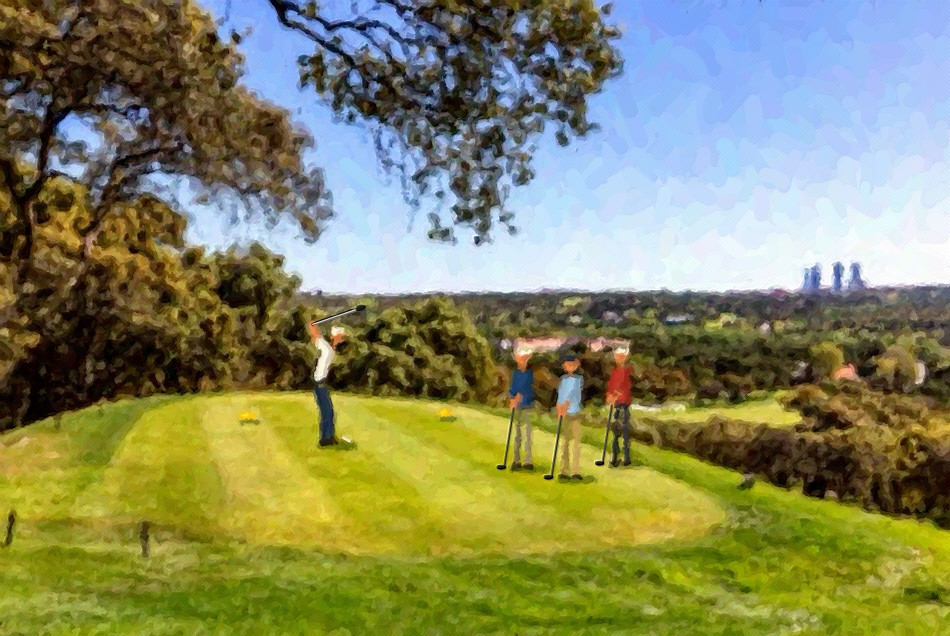
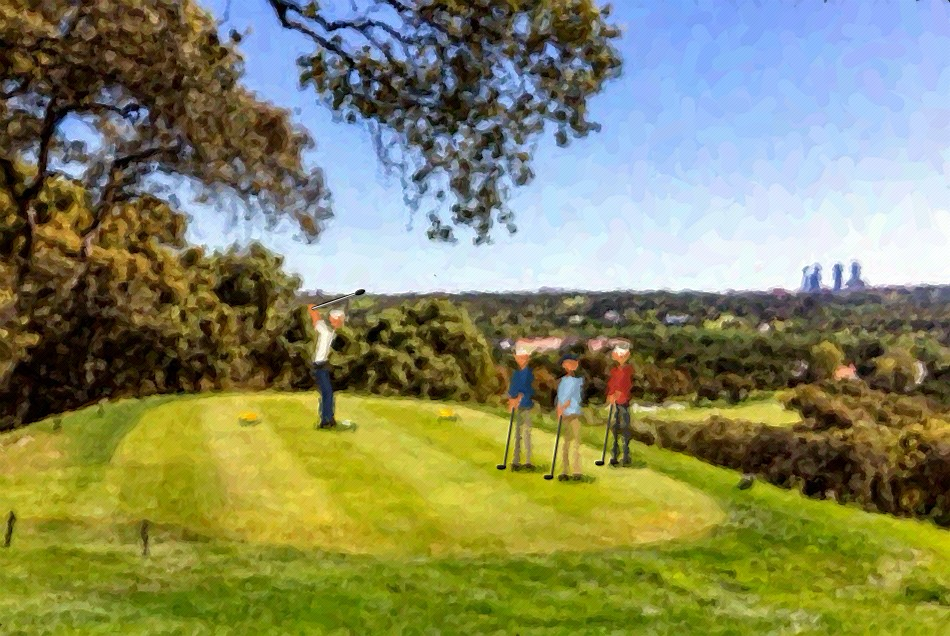
Tarjeta: golfer moved up to the tee markers

diff --git a/golf/tarjeta/img/paint.js b/golf/tarjeta/img/paint.js
@@ -7,7 +7,7 @@
 // strokes, coarse to fine, each laid along the direction of the shapes underneath, with a little
 // relief so the paint catches the light. The result is kept on this phone so it is only painted once.
 let sketchURL = null, sketching = false;
-const PAINT_VERSION = 'paint-v4';
+const PAINT_VERSION = 'paint-v5';
 function paintGolfers(x, S) {
   clubs = [];
   // photo pixels (475 x 318) to canvas pixels
@@ -72,8 +72,8 @@ function paintGolfers(x, S) {
   };
   // markers where the tee is in use; the golfer tees up between them, just behind their line
   marker(...P(124, 210), 3.9 * S); marker(...P(223, 208.5), 3.9 * S);
-  const g = P(162, 222);
-  golfer(g[0], g[1], 58 * S, '#f1eee6', '#2e3a52', '#f1eee6');
+  const g = P(162, 213);
+  golfer(g[0], g[1], 57 * S, '#f1eee6', '#2e3a52', '#f1eee6');
   // the other three to his right and a little behind him, facing him
   watcher(...P(262, 234), 58 * S, '#2f4a6e', '#8c8474', '#f1eee6');
   watcher(...P(286, 239), 60 * S, '#a7c1d9', '#b19c73', '#27344f');

diff --git a/golf/tarjeta/index.html b/golf/tarjeta/index.html
@@ -711,7 +711,7 @@ function vHome() {
   app.innerHTML = `
     <section class="agh">
       <div class="agh-scene" aria-hidden="true">
-        <img class="agh-sketch" src="img/tee-painting.jpg?v=4" alt="Óleo del tee del Club de Campo con cuatro jugadores">
+        <img class="agh-sketch" src="img/tee-painting.jpg?v=5" alt="Óleo del tee del Club de Campo con cuatro jugadores">
       </div>
       <div class="agh-board">
         <div class="agh-arch">TARJETA</div>
